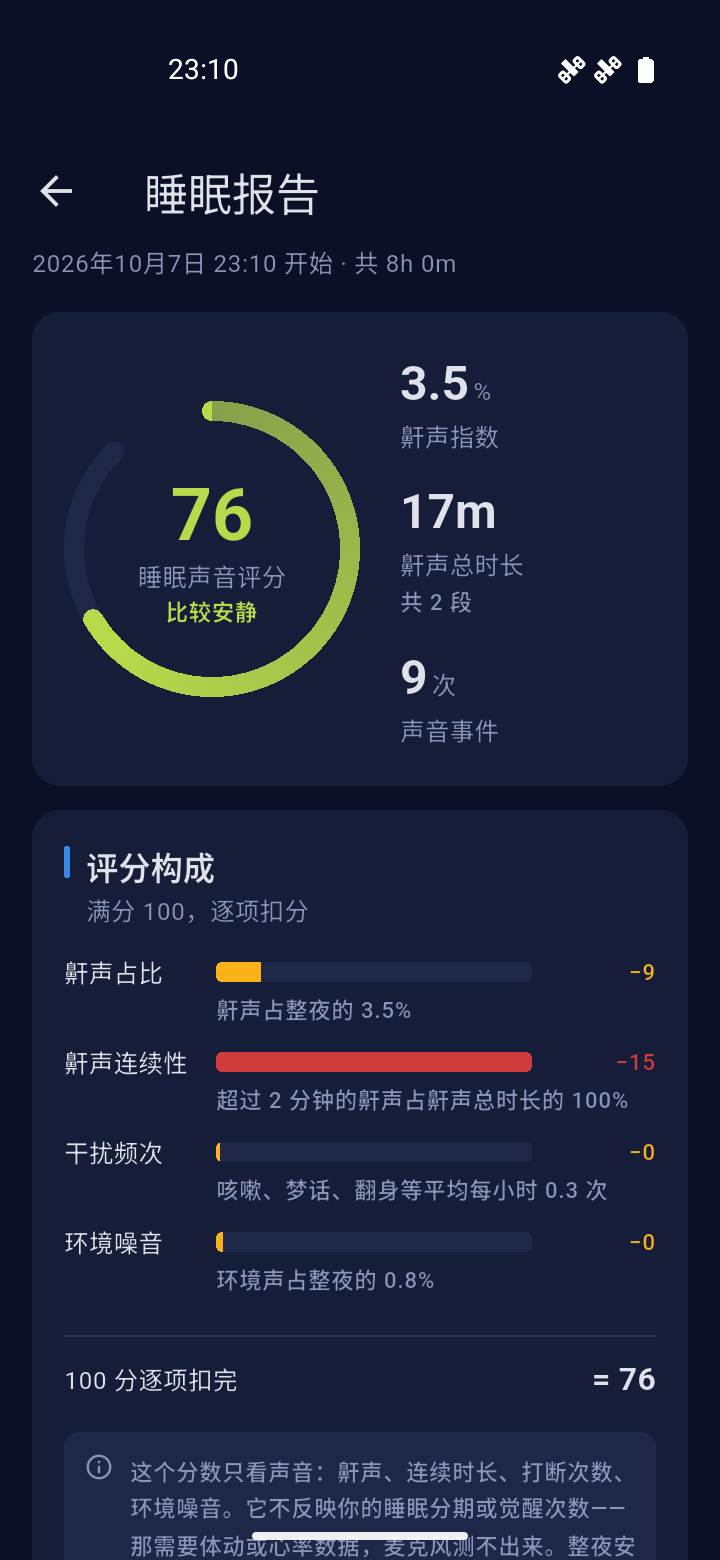
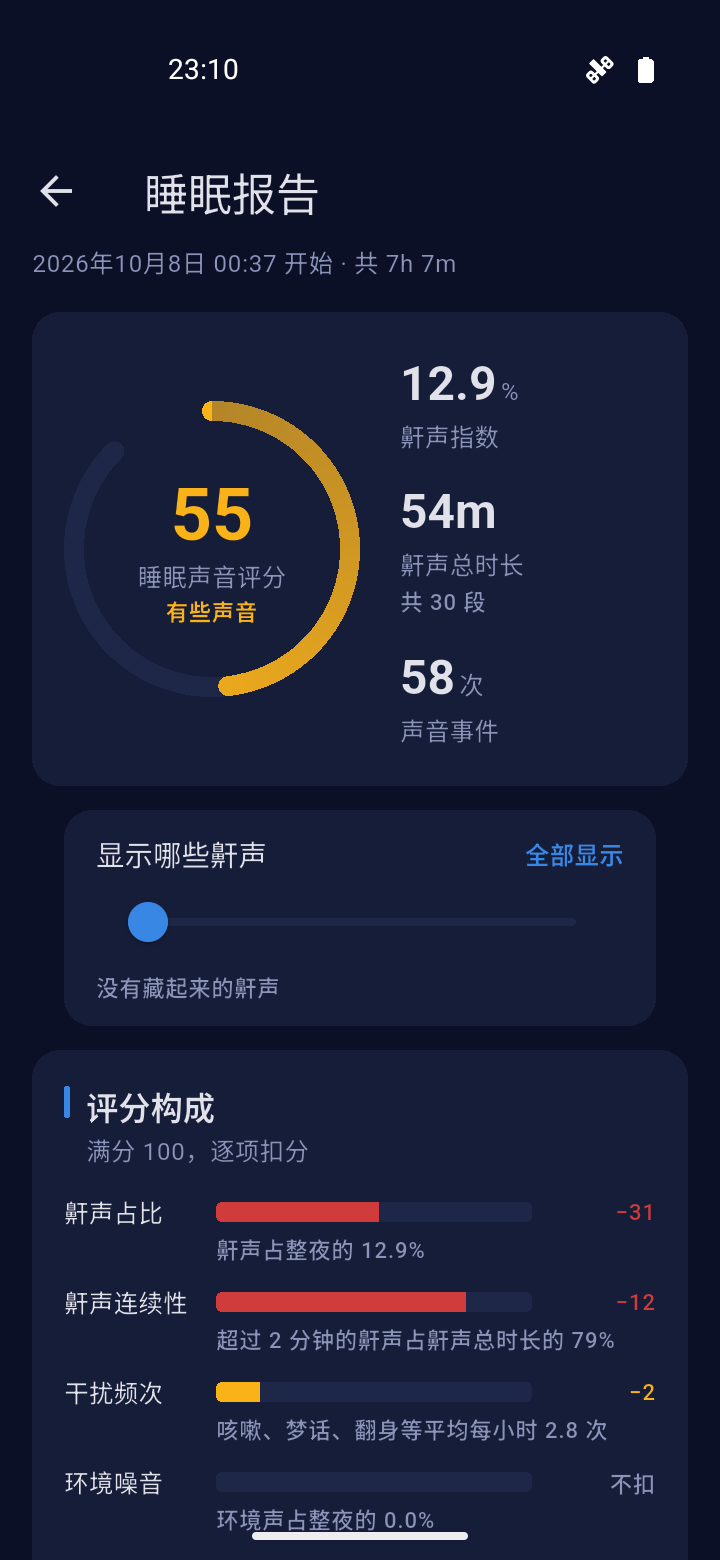
docs: 重拍报告页截图，并补一张鼾声门槛生效的对比
2.19.0 之后报告页顶部多了一张卡，原来那张 4-report-detail.png 已经过时了
（上面没有那个滑块）。

- 4-report-detail.png 重拍：同一个文件名，README 和文档站的引用自动跟上
- 新增 6-snore-filter.png：门槛拉到 80% 的样子

两张都是 720×1560，和现有那批一致；用发布版（x86_64）拍的——
截图就该截用户拿到的东西，不是 debug 包里长什么样。

对比很直观：同一晚拉到 80% 之后，鼾声指数 12.9%→4.9%、鼾声总时长
54m→20m、事件 58→39，评分 55→74。少掉的 19 段全是鼾声，别的类别一个没动。
滑块下面写着「还有 19 段更低把握的鼾声没有显示」——这句话是这次设计的重点：
报告变干净的原因必须看得见。

数据是 scripts/seed_report_db.py 生成的仿真数据，不是真实分析结果。

diff --git a/README.md b/README.md
@@ -12,7 +12,7 @@
 
 **文档站**：<https://mygithub.sixiangjia.de/sleep-secret/>（[使用指南](https://mygithub.sixiangjia.de/sleep-secret/guide/) · [看懂报告](https://mygithub.sixiangjia.de/sleep-secret/report/) · [数据与隐私](https://mygithub.sixiangjia.de/sleep-secret/privacy/)）
 
-<img src="docs/screenshots/1-recording-idle.png" width="170" alt="录音页待机：月亮睁着眼"> <img src="docs/screenshots/2-recording-active.png" width="170" alt="录音中：月亮睡着了，飘着 Z"> <img src="docs/screenshots/3-reports.png" width="170" alt="报告列表与鼾声指数趋势"> <img src="docs/screenshots/4-report-detail.png" width="170" alt="单晚报告：评分与逐项扣分"> <img src="docs/screenshots/5-detailed-view.png" width="170" alt="详细视图（单独一页）：模型给出的原始 AudioSet 标签与中文对照">
+<img src="docs/screenshots/1-recording-idle.png" width="170" alt="录音页待机：月亮睁着眼"> <img src="docs/screenshots/2-recording-active.png" width="170" alt="录音中：月亮睡着了，飘着 Z"> <img src="docs/screenshots/3-reports.png" width="170" alt="报告列表与鼾声指数趋势"> <img src="docs/screenshots/4-report-detail.png" width="170" alt="单晚报告：评分、鼾声指数，以及顶部的鼾声展示门槛"> <img src="docs/screenshots/6-snore-filter.png" width="170" alt="鼾声展示门槛拉到 80%：整份报告跟着变，并写着「还有 19 段更低把握的鼾声没有显示」"> <img src="docs/screenshots/5-detailed-view.png" width="170" alt="详细视图（单独一页）：模型给出的原始 AudioSet 标签与中文对照">
 
 <br>
 

diff --git a/docs/index.md b/docs/index.md
@@ -7,6 +7,7 @@
 <img src="screenshots/2-recording-active.png" width="170" alt="录音中：月亮睡着了">
 <img src="screenshots/3-reports.png" width="170" alt="报告列表">
 <img src="screenshots/4-report-detail.png" width="170" alt="单晚报告">
+<img src="screenshots/6-snore-filter.png" width="170" alt="鼾声展示门槛：整份报告跟着变">
 <img src="screenshots/5-detailed-view.png" width="170" alt="详细视图">
 
 <img src="screenshots/player-loop.gif" width="260" alt="点开一条鼾声：波形 + 整段时长">
